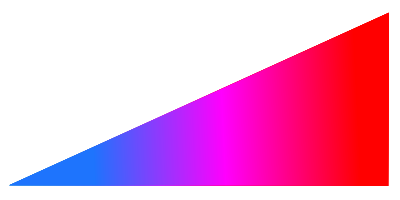
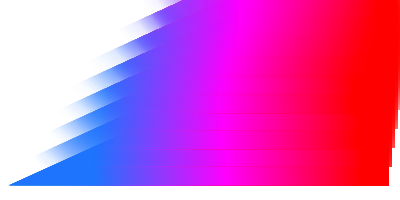
Sliderek, reszponzív portré módban is

diff --git a/core/src/hu/csanyzeg/master/Stage/GameStage.java b/core/src/hu/csanyzeg/master/Stage/GameStage.java
@@ -6,6 +6,7 @@ import com.badlogic.gdx.math.Vector2;
 import com.badlogic.gdx.physics.box2d.World;
 import com.badlogic.gdx.scenes.scene2d.Actor;
 import com.badlogic.gdx.scenes.scene2d.InputEvent;
+import com.badlogic.gdx.scenes.scene2d.ui.Slider;
 import com.badlogic.gdx.scenes.scene2d.utils.ClickListener;
 import com.badlogic.gdx.utils.Array;
 import com.badlogic.gdx.utils.viewport.Viewport;
@@ -39,25 +40,24 @@ public class GameStage extends MyStage {
     MyLabel currentKimeno;
     MyLabel error;
     MyLabel currentBemeno;
-    MyButton plus;
-    MyButton minus;
     Viz viz;
+    Slider bemenoSlider;
 
     public GameStage(Viewport viewport, Batch batch, MyGame game) {
         super(viewport, batch, game);
         assignment(viewport);
         if(matek.getBemeno() < matek.getOsszesKimeno()) {
             setSizesAndPositions(viewport);
+            sliders();
             tamaszok(tartaly);
             addActors();
-            addListeners();
         }
         else error();//Ha több a befolyó vízmennyiség, mint a kifolyó
     }
 
     void assignment(Viewport viewport)
     {
-        world = new World(new Vector2(0,-1800), false);
+        world = new World(new Vector2(0,-900), false);
         loader = new WorldBodyEditorLoader(Gdx.files.internal("fizika"));
         matek = new Matek(0,new float[]{8,12,16,20,24});
         matek.setBemeno((int)matek.getAtlag());
@@ -66,8 +66,6 @@ public class GameStage extends MyStage {
         currentVizszint = new MyLabel("Jelenlegi vízszint: 0.000000 m" , Styles.getLabelStyle());
         currentKimeno = new MyLabel("Kimenő vízmennyiség: 0.00 m3/h", Styles.getLabelStyle());
         currentBemeno = new MyLabel("Bemenő vízmennyiség: " + (int)matek.getBemeno() + " m3/h", Styles.getLabelStyle());
-        plus = new MyButton("+",Styles.getTextButtonStyle());
-        minus = new MyButton("-",Styles.getTextButtonStyle());
         error = new MyLabel("Hiba: Több a befolyó vízmennyíség, mint amennyi kifolyhat!", Styles.getLabelStyle());
         background = new Background(Assets.manager.get(Assets.WALLPAPER_TEXTURE),viewport);
         tartaly = new Tartaly(world, loader);
@@ -86,39 +84,18 @@ public class GameStage extends MyStage {
         viz.setX(vizszint.getX());
         viz.setY(vizszint.getY());
 
-        plus.setHeight(150);
-        minus.setHeight(150);
-        plus.setWidth(plus.getHeight());
-        plus.setY(viewport.getWorldHeight()-plus.getHeight());
-        minus.setWidth(plus.getWidth());
-        minus.setY(plus.getY());
-        minus.setX(viewport.getWorldWidth()-minus.getWidth());
-        currentBemeno.setX(viewport.getWorldWidth()/2-currentBemeno.getWidth()/2);
-        currentBemeno.setY(minus.getY()-60);
-
         currentKimeno.setPosition(viewport.getWorldWidth()/2-currentKimeno.getWidth()/2,35);
         currentVizszint.setPosition(viewport.getWorldWidth()/2-currentVizszint.getWidth()/2,currentKimeno.getHeight()+15);
+        currentBemeno.setX(viewport.getWorldWidth()/2-currentBemeno.getWidth()/2);
+        currentBemeno.setY(currentVizszint.getY()+currentVizszint.getHeight()+10);
     }
 
-    void addListeners()
+    void sliders()
     {
-        plus.addListener(new ClickListener(){
-            @Override
-            public void clicked(InputEvent event, float x, float y) {
-                super.clicked(event, x, y);
-                if(matek.getBemeno() < matek.getOsszesKimeno()-1) matek.setBemeno(matek.getBemeno()+1);
-                currentBemeno.setText("Bemenő vízmennyiség:" + (int)matek.getBemeno() + " m3/h");
-            }
-        });
-
-        minus.addListener(new ClickListener(){
-            @Override
-            public void clicked(InputEvent event, float x, float y) {
-                super.clicked(event, x, y);
-                if(matek.getBemeno() > 0) matek.setBemeno(matek.getBemeno()-1);
-                currentBemeno.setText("Bemenő vízmennyiség:" + (int)matek.getBemeno() + " m3/h");
-            }
-        });
+        bemenoSlider = new Slider(0, matek.getOsszesKimeno()-1, 1, false, Styles.getSliderStyle(0));
+        bemenoSlider.setValue((matek.getOsszesKimeno())/2);
+        bemenoSlider.setSize(400,50);
+        bemenoSlider.setPosition(getViewport().getWorldWidth()/2-bemenoSlider.getWidth()/2,getViewport().getWorldHeight()-100);
     }
 
     void addActors()
@@ -130,10 +107,8 @@ public class GameStage extends MyStage {
         addActor(currentKimeno);
         addActor(viz);
         addActor(tartaly);
-        addActor(plus);
-        addActor(minus);
         addActor(currentBemeno);
-
+        addActor(bemenoSlider);
         tartaly.setZIndex(1000);
     }
 
@@ -174,8 +149,6 @@ public class GameStage extends MyStage {
     {
         if (elapsedTime > pElapsedTime + (0.01/matek.getBemeno())) {
             if (matek.getVizmennyiseg() + 890 < 1000 && matek.getVizmennyiseg()+890 > 890 && matek.getBemeno() !=0) {
-                //System.out.println(vizcseppCount);
-                //System.out.println(matek.getVizmennyiseg()+890);
                 WorldActorGroup vizcsepp2 = new Vizcsepp(world);
                 vizcsepp2.addToWorld();
                 vizcsepp2.setPosition((float)(Math.random() * 450 + 150), getViewport().getWorldHeight()+50);
@@ -196,6 +169,7 @@ public class GameStage extends MyStage {
                 {
                     vizcseppCount--;
                     actor.remove();
+                    ((Vizcsepp) actor).removeFromStage();
                 }
             }
         }
@@ -207,6 +181,7 @@ public class GameStage extends MyStage {
         viz.setHeight(vizszint.getY()-(tartaly.getY()+35)-7.5f);
         currentVizszint.setText("Jelenlegi vízszint: " + (matek.getVizmennyiseg()+890)/100 + " m");
         currentKimeno.setText("Kimenő vízmennyiség: " + matek.getKimeno() + " m3/h");
+        currentBemeno.setText("Bemenő vízmennyiség: " + (int)matek.getBemeno() + " m3/h");
     }
 
     @Override
@@ -217,8 +192,8 @@ public class GameStage extends MyStage {
             matek.step(delta);
             update();
             vizCseppek();
+            matek.setBemeno(bemenoSlider.getVisualValue());
         }
-        System.out.println(getViewport().getWorldWidth() + " " + getViewport().getWorldHeight());
     }
 
     @Override

diff --git a/core/src/hu/csanyzeg/master/GlobalClasses/Styles.java b/core/src/hu/csanyzeg/master/GlobalClasses/Styles.java
@@ -1,8 +1,12 @@
 package hu.csanyzeg.master.GlobalClasses;
 
+import com.badlogic.gdx.Graphics;
 import com.badlogic.gdx.graphics.Color;
+import com.badlogic.gdx.graphics.Pixmap;
+import com.badlogic.gdx.graphics.Texture;
 import com.badlogic.gdx.graphics.g2d.TextureRegion;
 import com.badlogic.gdx.scenes.scene2d.ui.Label;
+import com.badlogic.gdx.scenes.scene2d.ui.Slider;
 import com.badlogic.gdx.scenes.scene2d.ui.TextButton;
 import com.badlogic.gdx.scenes.scene2d.ui.TextField;
 import com.badlogic.gdx.scenes.scene2d.utils.TextureRegionDrawable;
@@ -30,6 +34,18 @@ public class Styles {
         return style;
     }
 
+
+    public static Slider.SliderStyle getSliderStyle(int a){//Szeretlek Csongor <3 https://github.com/mordes/CarSpinners/blob/master/core/src/com/mygdx/game/MyGdxGame.java
+        Slider.SliderStyle style;
+        style = new Slider.SliderStyle();
+        if(a == 0) style.background = new TextureRegionDrawable(new TextureRegion(Assets.manager.get(Assets.SLIDER_BG_RAINBOW)));
+        else if(a == 1) style.background = new TextureRegionDrawable(new TextureRegion(Assets.manager.get(Assets.SLIDER_BG_BR)));
+        else if(a == 2) style.background = new TextureRegionDrawable(new TextureRegion(Assets.manager.get(Assets.SLIDER_BG_GR)));
+        style.knob = new TextureRegionDrawable(new TextureRegion(Assets.manager.get(Assets.SLIDER_KNOB)));
+        style.knob.setMinHeight(64);
+        style.knob.setMinWidth(64);
+        return style;
+    }
 
     public static TextButton.TextButtonStyle getTextButtonStyle() {
         TextButton.TextButtonStyle textButtonStyle = new TextButton.TextButtonStyle();

diff --git a/core/src/hu/csanyzeg/master/GlobalClasses/Assets.java b/core/src/hu/csanyzeg/master/GlobalClasses/Assets.java
@@ -41,6 +41,10 @@ public class Assets {
     public static final AssetDescriptor<Texture> VIZ_TEXTURE = new AssetDescriptor<Texture>("water.png", Texture.class);
     public static final AssetDescriptor<Texture> VIZ = new AssetDescriptor<Texture>("waterBlue.png", Texture.class);
     public static final AssetDescriptor<Texture> VIZSZINT_TEXTURE = new AssetDescriptor<Texture>("waterLevel.png", Texture.class);
+    public static final AssetDescriptor<Texture> SLIDER_KNOB = new AssetDescriptor<Texture>("haromszog.png", Texture.class);
+    public static final AssetDescriptor<Texture> SLIDER_BG_GR = new AssetDescriptor<Texture>("greenRed.png", Texture.class);
+    public static final AssetDescriptor<Texture> SLIDER_BG_BR = new AssetDescriptor<Texture>("blueRed.png", Texture.class);
+    public static final AssetDescriptor<Texture> SLIDER_BG_RAINBOW = new AssetDescriptor<Texture>("rainbow.png", Texture.class);
 
     public static void prepare() {
 		manager = new AssetManager();
@@ -66,6 +70,10 @@ public class Assets {
         manager.load(VIZ_TEXTURE);
         manager.load(VIZ);
         manager.load(VIZSZINT_TEXTURE);
+        manager.load(SLIDER_KNOB);
+        manager.load(SLIDER_BG_GR);
+        manager.load(SLIDER_BG_BR);
+        manager.load(SLIDER_BG_RAINBOW);
 	}
 
     public static void afterLoaded() {

diff --git a/core/src/hu/csanyzeg/master/MyGdxGame.java b/core/src/hu/csanyzeg/master/MyGdxGame.java
@@ -19,10 +19,17 @@ public class MyGdxGame extends MyGame {
 		Assets.manager.update();
 	}
 
-	public static int keparanySzelesvaszonra(int magassag)
+	public static float keparanySzelesvaszonra()
 	{
-		int egyArany = magassag/9;//egy arányra eső szélesség 1080-as magasságnál (1080/9)
-		return Gdx.graphics.getWidth() / egyArany * 120;
+		float keparany = (Gdx.graphics.getHeight()/1.0f) / Gdx.graphics.getWidth();//a portré mód miatt csak megkellett cserélnem a kettőt
+		int egyArany = 80;//egy arányra eső szélesség 720-as magasságnál ((720/9)*x)
+		int x = 1;//szélességi arány
+		while (keparany > (x/9.0f)) x++;
+
+		if((int)keparany*(x*egyArany) != Gdx.graphics.getWidth()) return (720.0f/Gdx.graphics.getWidth() * Gdx.graphics.getHeight());
+		//Ha nem pontos a képarány számítása, akkor a világ magassága legyen a telefon kijelzőjének magassága 720 pixelhez viszonyítva
+
+		return x * egyArany;
 	}
 
 	@Override

diff --git a/core/src/hu/csanyzeg/master/Actor/Vizcsepp.java b/core/src/hu/csanyzeg/master/Actor/Vizcsepp.java
@@ -14,7 +14,7 @@ public class Vizcsepp extends WorldActorGroup {
     public Vizcsepp(World world) {
         super(world, ShapeType.Circle, BodyDef.BodyType.DynamicBody, new FixtureDef());
         getFixtureDef().shape = new CircleShape();
-        getFixtureDef().density = 10.0f; // A vízcsepp tömege
+        getFixtureDef().density = 1000.0f; // A vízcsepp tömege
         getFixtureDef().friction = 0.0f; // Súrlódás
         getFixtureDef().restitution = 0.5f; // Pattanás
 

diff --git a/core/src/hu/csanyzeg/master/Screen/OptionsScreen.java b/core/src/hu/csanyzeg/master/Screen/OptionsScreen.java
@@ -14,7 +14,7 @@ public class OptionsScreen extends MyScreen {
 
     public OptionsScreen(MyGame game) {
         super(game);
-        optionsStage = new OptionsStage(new FitViewport(720,keparanySzelesvaszonra(720)),spriteBatch,game);
+        optionsStage = new OptionsStage(new FitViewport(720,keparanySzelesvaszonra()),spriteBatch,game);
         Gdx.input.setInputProcessor(optionsStage);
     }
 

diff --git a/core/src/hu/csanyzeg/master/Screen/GameScreen.java b/core/src/hu/csanyzeg/master/Screen/GameScreen.java
@@ -16,7 +16,7 @@ public class GameScreen extends MyScreen {
 
     public GameScreen(MyGame game) {
         super(game);
-        gameStage = new GameStage(new FitViewport(720,keparanySzelesvaszonra(720)),spriteBatch,game);
+        gameStage = new GameStage(new FitViewport(720,keparanySzelesvaszonra()),spriteBatch,game);
         Gdx.input.setInputProcessor(gameStage);
     }
 

diff --git a/core/src/hu/csanyzeg/master/Screen/InfoScreen.java b/core/src/hu/csanyzeg/master/Screen/InfoScreen.java
@@ -14,7 +14,7 @@ public class InfoScreen extends MyScreen {
 
     public InfoScreen(MyGame game) {
         super(game);
-        infoStage = new InfoStage(new FitViewport(720,keparanySzelesvaszonra(720)),spriteBatch,game);
+        infoStage = new InfoStage(new FitViewport(720,keparanySzelesvaszonra()),spriteBatch,game);
         Gdx.input.setInputProcessor(infoStage);
     }
 

diff --git a/core/src/hu/csanyzeg/master/Screen/MenuScreen.java b/core/src/hu/csanyzeg/master/Screen/MenuScreen.java
@@ -14,7 +14,7 @@ public class MenuScreen extends MyScreen {
 
     public MenuScreen(MyGame game) {
         super(game);
-        menuStage = new MenuStage(new FitViewport(720,keparanySzelesvaszonra(720)),spriteBatch,game);
+        menuStage = new MenuStage(new FitViewport(720,keparanySzelesvaszonra()),spriteBatch,game);
         Gdx.input.setInputProcessor(menuStage);
     }
 
